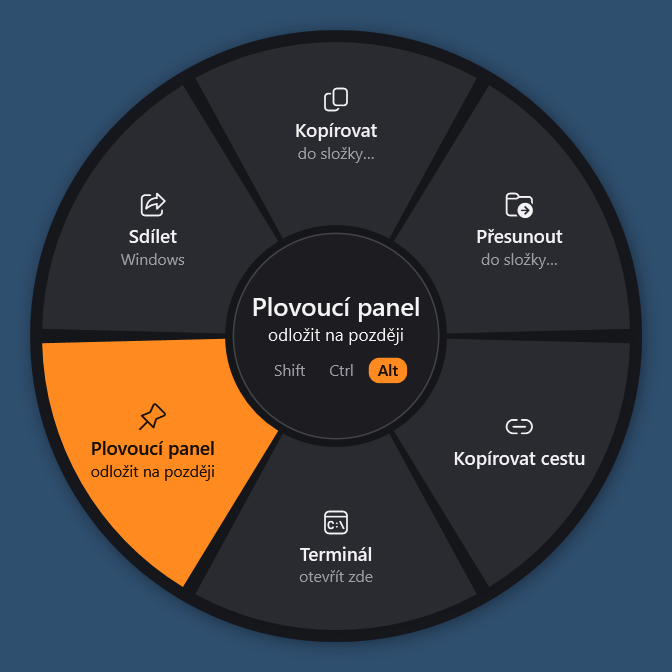
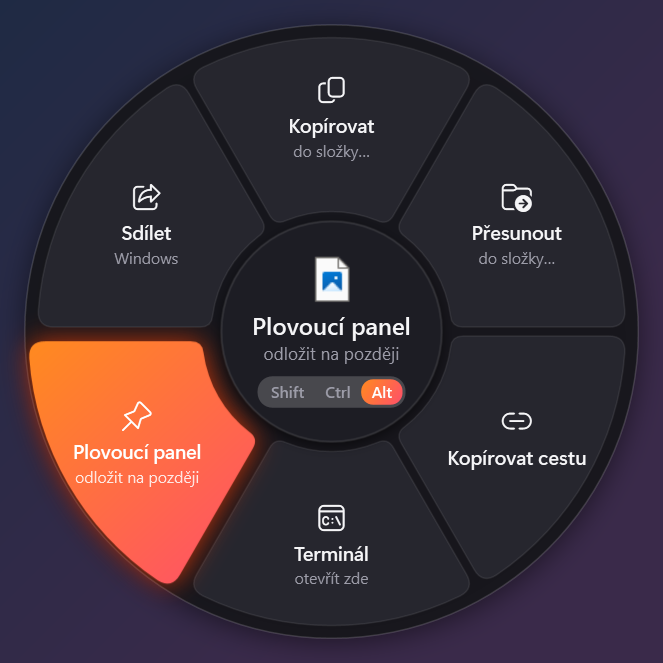
Refresh README screenshots for the new design
Claude-Session: https://claude.ai/code/session_019DUMcR6TkZJyNJvkZ9tybg

diff --git a/README.cs.md b/README.cs.md
@@ -11,6 +11,11 @@ Inspirováno skvělou aplikací [Tangerine](https://tangerineformac.com/) pro ma
   <img src="docs/screenshots/cs/wheel-image-tools.png" width="32%" alt="Kolo Nástroje pro obrázek" />
   <img src="docs/screenshots/cs/wheel-actions.png" width="32%" alt="Kolo Akce" />
 </p>
+<p align="center">
+  <img src="docs/screenshots/cs/wheel-pdf-convert.png" width="32%" alt="Kolo Převést pro PDF" />
+  <img src="docs/screenshots/cs/settings.png" width="32%" alt="Nastavení" />
+  <img src="docs/screenshots/cs/jobs.png" width="32%" alt="Průběh" />
+</p>
 
 ## Jak to funguje
 
@@ -68,7 +73,7 @@ Co chybí, ukáže **Nastavení → Pomocné programy**, odkud jde i rovnou nain
 
 Stáhněte `FileAction-Setup-x.y.z.exe` z [Releases](../../releases) nebo z artefaktů posledního běhu [GitHub Actions](../../actions). Instalátor nepotřebuje práva správce. Jde také o přenosnou verzi v `.zip`.
 
-Aplikace je česky i anglicky; jazyk se řídí jazykem Windows a jde přepnout v nastavení.
+Aplikace je česky i anglicky a ve světlém i tmavém režimu; obojí se řídí nastavením Windows, jazyk jde přepnout v nastavení.
 
 Při prvním spuštění se FileAction zapíše do automatického spouštění a do kontextové nabídky Průzkumníka (obojí jde vypnout v nastavení). Pak běží v oznamovací oblasti vedle hodin.
 

diff --git a/README.md b/README.md
@@ -11,6 +11,11 @@ Inspired by the wonderful [Tangerine](https://tangerineformac.com/) for macOS. F
   <img src="docs/screenshots/en/wheel-image-tools.png" width="32%" alt="Tools wheel for an image" />
   <img src="docs/screenshots/en/wheel-actions.png" width="32%" alt="Actions wheel" />
 </p>
+<p align="center">
+  <img src="docs/screenshots/en/wheel-light.png" width="32%" alt="Light mode" />
+  <img src="docs/screenshots/en/settings.png" width="32%" alt="Settings" />
+  <img src="docs/screenshots/en/jobs.png" width="32%" alt="Progress" />
+</p>
 
 ## How it works
 
@@ -68,7 +73,7 @@ FileAction handles images, PDFs, spreadsheets, subtitles and archives on its own
 
 Download `FileAction-Setup-x.y.z.exe` from [Releases](../../releases), or from the artifacts of the latest [GitHub Actions](../../actions) run. The installer doesn't need admin rights. A portable `.zip` is available too.
 
-The app speaks English and Czech; it follows your Windows display language and can be switched in Settings.
+The app speaks English and Czech and comes in light and dark mode; both follow your Windows settings, and the language can be switched in Settings.
 
 On first launch FileAction adds itself to startup and to the File Explorer context menu (both can be turned off in Settings). It then lives in the notification area next to the clock.
 
